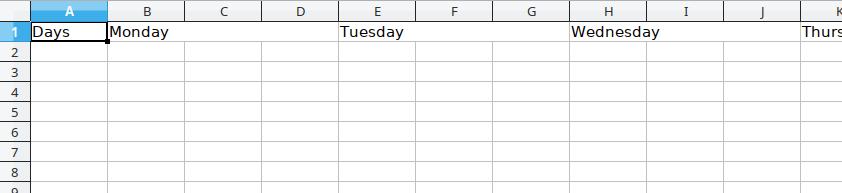
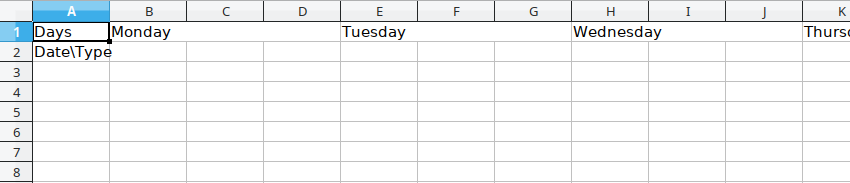
Moving on to notebook

diff --git a/fin/edit.py b/fin/edit.py
@@ -14,6 +14,7 @@ for arg in sys.argv:
         pays.title = "Pays"
 
         pays["A1"] = "Days"
+        pays["A2"] = "Date\\Type"
 
         days = ['Monday', 'Tuesday', 'Wednesday', 'Thursday', 'Friday', 'Saturday', 'Sunday']
         spec = ['name', 'cost', 'general cost']
@@ -26,6 +27,22 @@ for arg in sys.argv:
 
             pays.merge_cells(start_row=1, end_row=1, start_column=curr_col, end_column=next_col)
             curr_cell = pays.cell(row=1, column=curr_col, value=days[i - 1])
+
+        for i in range(1, 8):
+            
+
+
+        for col in pays.columns:
+            max_length = 0
+            column = col[0].column # Get the column name
+            for cell in col:
+                try: # Necessary to avoid error on empty cells
+                    if len(str(cell.value)) > max_length:
+                        max_length = len(cell.value)
+                except:
+                    pass
+            adjusted_width = (max_length + 2) * 1.2
+            pays.column_dimensions[column].width = adjusted_width
 
         # for i in range(1, 50):
         #     pays.cell(row=i + 1, column=1, value=i)
